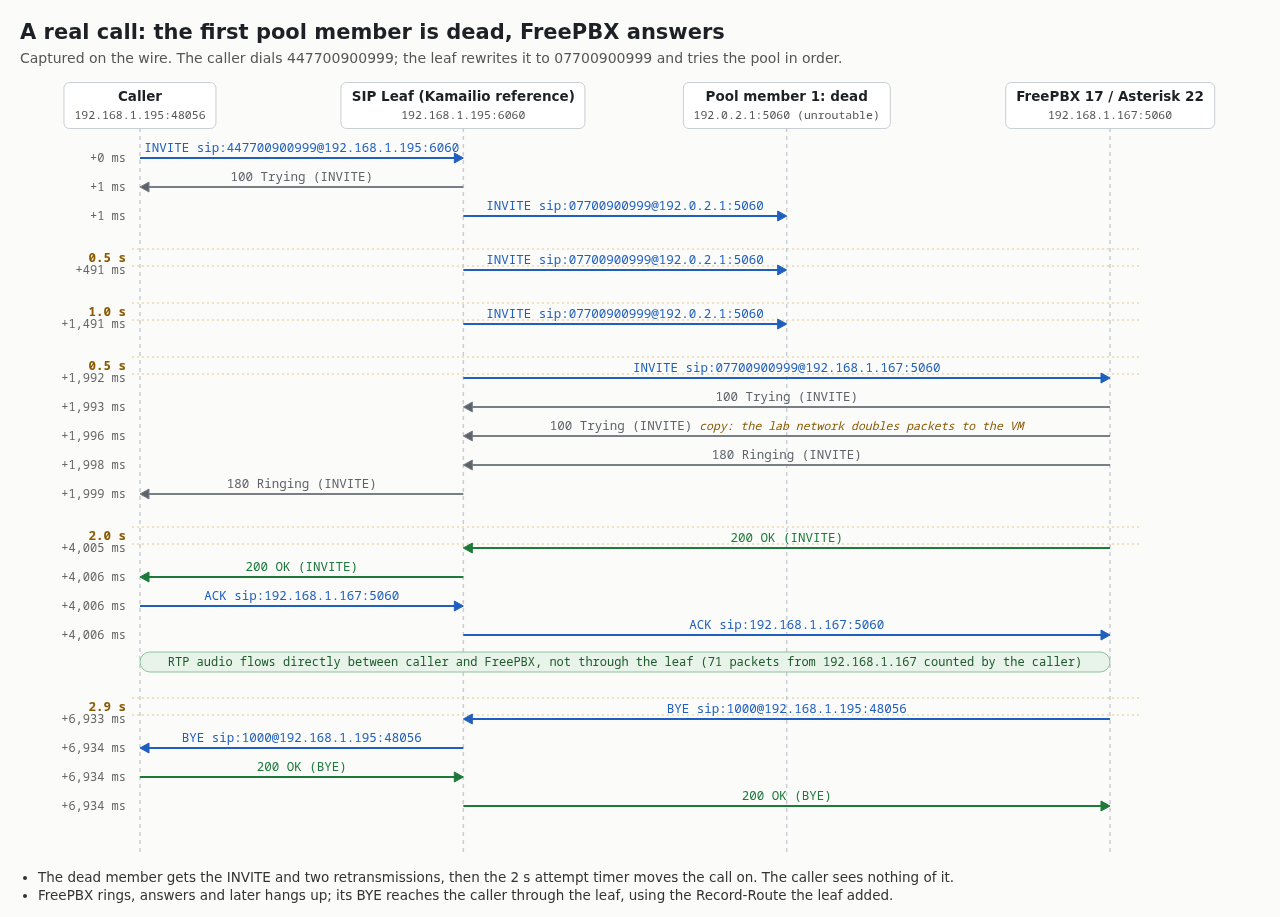
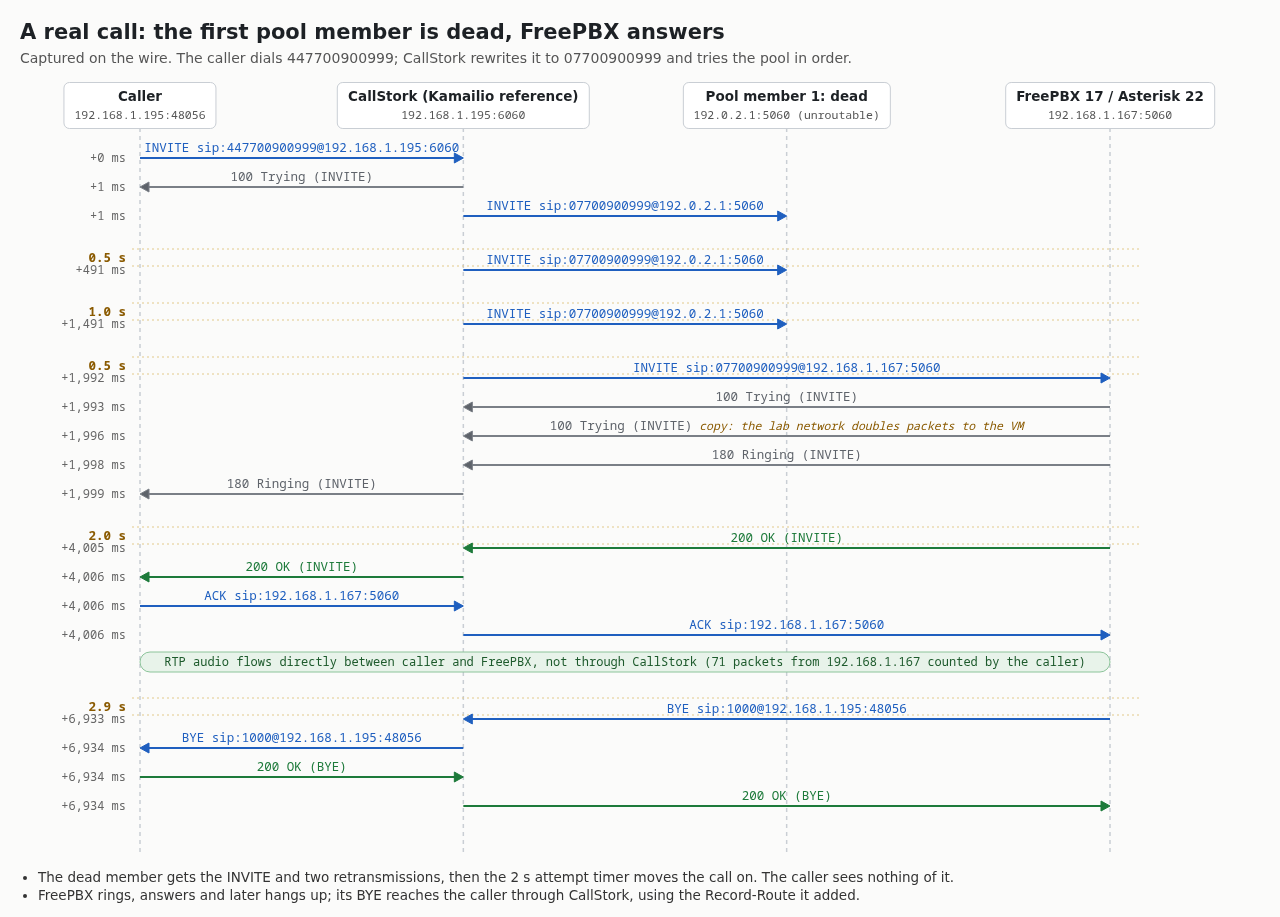
Rename the SIP Leaf overview to CallStork

Changed region(s): [[0.125, 0.7023, 0.8438, 0.7328], [0.25, 0.0611, 0.6562, 0.1221], [0.4375, 0.9466, 0.6875, 1.0]]

diff --git a/callstork/README.md b/callstork/README.md
@@ -1,12 +1,12 @@
-# SIP Leaf
+# CallStork
 
-**An inbound SIP dispatcher for small phone systems: it takes every call from a carrier, another PBX or a SIP endpoint at one address, picks the right rule for the dialled number, and hands the call to one PBX in a pool, failing over to the next when one is down.** SIP Leaf is a working name.
+**An inbound SIP dispatcher for small phone systems: it takes every call from a carrier, another PBX or a SIP endpoint at one address, picks the right rule for the dialled number, and hands the call to one PBX in a pool, failing over to the next when one is down.**
 
-A phone system with more than one PBX still has one front door: the carrier sends every call to a single SIP address. Something has to sit at that address and decide where each call goes. Usually that's a full SBC or a hand-written Kamailio or OpenSIPS config, which is a lot of machinery for "send these numbers to that pool, and if a PBX doesn't answer, try the next one". SIP Leaf aims at the small version of that job. You give it a short YAML file of peers, rules and pools. It stays in the signalling path, so it sees every BYE, but it never touches the audio or the caller ID.
+A phone system with more than one PBX still has one front door: the carrier sends every call to a single SIP address. Something has to sit at that address and decide where each call goes. Usually that's a full SBC or a hand-written Kamailio or OpenSIPS config, which is a lot of machinery for "send these numbers to that pool, and if a PBX doesn't answer, try the next one". CallStork aims at the small version of that job: it delivers each call to the right PBX, as the name suggests. You give it a short YAML file of peers, rules and pools. It stays in the signalling path, so it sees every BYE, but it never touches the audio or the caller ID.
 
-![A real call captured on the wire: the leaf tries a dead pool member, gives up after 2 s and sends the call to FreePBX, which rings, answers and later hangs up](images/01-failover.png)
+![A real call captured on the wire: CallStork tries a dead pool member, gives up after 2 s and sends the call to FreePBX, which rings, answers and later hangs up](images/01-failover.png)
 
-*A real call, captured on the wire. The first pool member is an unroutable address. The leaf sends it the INVITE and two retransmissions, gives up after its 2 s attempt timer and tries FreePBX, which rings for 2 s, answers and hangs up 2.9 s later. The caller sees one 100 Trying, one 180 Ringing and the 200 OK. The audio never passes through the leaf.*
+*A real call, captured on the wire. The first pool member is an unroutable address. CallStork sends it the INVITE and two retransmissions, gives up after its 2 s attempt timer and tries FreePBX, which rings for 2 s, answers and hangs up 2.9 s later. The caller sees one 100 Trying, one 180 Ringing and the 200 OK. The audio never passes through CallStork.*
 
 ---
 
@@ -21,7 +21,7 @@ A phone system with more than one PBX still has one front door: the carrier send
 | **The awkward cases** | CANCEL at every stage, ACK absorption, retransmissions, late answers, in-dialog requests, restarts with calls up |
 | **Tested** | 28 wire scenarios in two Record-Route modes, and real calls to FreePBX 17 / Asterisk 22 |
 
-Today SIP Leaf is a Kamailio 6.1 reference configuration, a YAML contract and a test harness. The standalone program (Go, built on the `sipgo` library) comes next and has to pass the same tests.
+Today CallStork is a Kamailio 6.1 reference configuration, a YAML contract and a test harness. The standalone program (Go, built on the `sipgo` library) comes next and has to pass the same tests.
 
 ---
 
@@ -37,15 +37,15 @@ A **pool** is a list of PBXs and a way to choose between them. The reference doe
 
 ## Failover the caller doesn't notice
 
-Each attempt is a separate SIP transaction with its own branch. If a PBX doesn't answer at all, replies 5xx, or can't be reached, the leaf tries the next member. The caller has only seen 100 Trying, so the switch is invisible to them, as in the call at the top of this page. Retransmissions of the caller's INVITE during the switch are absorbed, so a call never reaches two PBXs at once.
+Each attempt is a separate SIP transaction with its own branch. If a PBX doesn't answer at all, replies 5xx, or can't be reached, CallStork tries the next member. The caller has only seen 100 Trying, so the switch is invisible to them, as in the call at the top of this page. Retransmissions of the caller's INVITE during the switch are absorbed, so a call never reaches two PBXs at once.
 
 Some outcomes stop the search: busy (486), not found (404) or any other 4xx or 6xx is a real answer and goes back to the caller. Once a PBX has sent 180 or 183 the caller has heard ringing, so a 5xx after that goes back too: being moved to a second PBX mid-ring would be worse than a failed call. If no member is left, or all are down, the caller gets a 503.
 
 ## Timers that follow the call, not the PBX
 
-![FreePBX sends 100 Trying and nothing else; at 8 s the leaf cancels it and answers the caller 503](images/03-deadline.png)
+![FreePBX sends 100 Trying and nothing else; at 8 s CallStork cancels it and answers the caller 503](images/03-deadline.png)
 
-There are two timers. The **attempt timer** gives a PBX 2 s to say anything at all. A 100 Trying is enough to stop it, because a PBX that has said Trying is alive and working on the call. The **setup deadline** gives the whole call 8 s, counted from the caller's INVITE and across every attempt, to start ringing. When it passes, the leaf cancels the attempt in progress and answers the caller 503. It doesn't move on to another member: by then the caller has waited long enough.
+There are two timers. The **attempt timer** gives a PBX 2 s to say anything at all. A 100 Trying is enough to stop it, because a PBX that has said Trying is alive and working on the call. The **setup deadline** gives the whole call 8 s, counted from the caller's INVITE and across every attempt, to start ringing. When it passes, CallStork cancels the attempt in progress and answers the caller 503. It doesn't move on to another member: by then the caller has waited long enough.
 
 Once a PBX sends 180 or 183 the deadline no longer applies. The call can ring for up to three minutes, in line with SIP's Timer C for proxies, until someone answers or someone hangs up.
 
@@ -58,20 +58,20 @@ The first version of the reference got both timers wrong: ringing calls were cut
 Routing an INVITE is the easy part. The harness concentrates on the moments when two things happen at once:
 
 - **CANCEL** before the PBX has answered anything, during ringing, between two attempts, and after the call was answered.
-- **ACKs:** the ACK for a busy or error response is absorbed by the leaf, while the ACK for a 200 goes to the PBX.
+- **ACKs:** the ACK for a busy or error response is absorbed by CallStork, while the ACK for a 200 goes to the PBX.
 - **Retransmissions:** of the caller's INVITE during failover, and of the PBX's 200 (which must reach the caller).
-- **In-dialog requests:** BYE from either side, re-INVITE and OPTIONS follow the Record-Route path. A BYE still gets through after the leaf has been **restarted** or its configuration **reloaded** with the call up, because the leaf keeps no per-call state once a call is set up.
+- **In-dialog requests:** BYE from either side, re-INVITE and OPTIONS follow the Record-Route path. A BYE still gets through after CallStork has been **restarted** or its configuration **reloaded** with the call up, because CallStork keeps no per-call state once a call is set up.
 - **Guards:** too many hops gets 483, and an INVITE too large for UDP gets 513.
 
-Each scenario runs a fake caller and two fake PBXs in Python, using only the standard library. The PBXs can be told to answer, ring, stay silent, return 5xx or busy, or answer late. The harness checks what each side saw, including the Request-URI every PBX received. That check was added after a review of the traces found a failover, after a timeout, sending the second PBX the caller's original number instead of the rewritten one. Every run writes a verbatim, timestamped trace. The traces for both modes, one Record-Route header and the RFC 5658 pair for a leaf with two network addresses, are in the repository as the reference the standalone program must match.
+Each scenario runs a fake caller and two fake PBXs in Python, using only the standard library. The PBXs can be told to answer, ring, stay silent, return 5xx or busy, or answer late. The harness checks what each side saw, including the Request-URI every PBX received. That check was added after a review of the traces found a failover, after a timeout, sending the second PBX the caller's original number instead of the rewritten one. Every run writes a verbatim, timestamped trace. The traces for both modes, one Record-Route header, and the RFC 5658 pair used when CallStork has two network addresses, are in the repository as the reference the standalone program must match.
 
 ## Checked against a real PBX
 
-![Seven real calls through the leaf to FreePBX: answered, both hang-ups, busy, unknown number, failover from a dead member, CANCEL and the setup deadline, all passing](images/05-real-pbx.png)
+![Seven real calls through CallStork to FreePBX: answered, both hang-ups, busy, unknown number, failover from a dead member, CANCEL and the setup deadline, all passing](images/05-real-pbx.png)
 
 The same reference was then run on a LAN address, with a FreePBX 17 (Asterisk 22) virtual machine as the pool. A test caller sent each call with a real SDP offer, and a small dialplan on FreePBX gave each test number one behaviour: ring then answer, busy, ring until cancelled, answer and stay up, or say Trying and nothing else. All seven cases passed, twice. In every answered call the audio went directly between FreePBX and the caller: the caller counted 71 RTP packets, all from FreePBX's own address.
 
-Two things learned from the run are written up in the repository. FreePBX accepts calls from unknown sources and checks for them before it checks headers, so the leaf has to be identified by its IP address and port. And in this lab, a WSL2 instance and a VMware virtual machine on the same Windows host, every packet sent to the VM arrives twice. SIP takes the copies as retransmissions and calls still work, but the copies show up in traces (the ladders above mark them).
+Two things learned from the run are written up in the repository. FreePBX accepts calls from unknown sources and checks for them before it checks headers, so CallStork has to be identified by its IP address and port. And in this lab, a WSL2 instance and a VMware virtual machine on the same Windows host, every packet sent to the VM arrives twice. SIP takes the copies as retransmissions and calls still work, but the copies show up in traces (the ladders above mark them).
 
 ---
 
@@ -84,8 +84,8 @@ The reference is a single Kamailio configuration file plus two data files, the a
 Phase 0 of a planned product, built in November 2026: the design is settled and proven on the wire, but there is no standalone program yet.
 
 - **Working:** the Kamailio reference (UDP, IPv4), the YAML contract, the harness with 28 scenarios passing in both Record-Route modes, and the real-PBX run above.
-- **Next:** choosing the product's name, then the standalone Go program, with `check` and `test` commands that validate a config and run the scenarios against it, then a web page for the config. The plan is tracked as [issues](https://github.com/chrisnock-personal/sip-leaf/issues).
-- **In review:** two gaps found while writing this page are fixed in a [pull request](https://github.com/chrisnock-personal/sip-leaf/pull/15) awaiting review. A 200 that a PBX sends after the leaf has given up on its attempt was passed on to the caller; now the leaf answers it and hangs it up on the PBX, as the design asks. And the 503 now carries `Retry-After`. Three new scenarios bring the suite to 31, all passing in both modes. A [second pull request](https://github.com/chrisnock-personal/sip-leaf/pull/16) adds the real-PBX run as a repeatable tool, with a guide to preparing FreePBX or Asterisk for it.
+- **Next:** the standalone Go program, with `check` and `test` commands that validate a config and run the scenarios against it, then a web page for the config. The plan is tracked as [issues](https://github.com/chrisnock-personal/callstork/issues).
+- **In review:** two gaps found while writing this page are fixed in a [pull request](https://github.com/chrisnock-personal/callstork/pull/15) awaiting review. A 200 that a PBX sends after CallStork has given up on its attempt was passed on to the caller; now CallStork answers it and hangs it up on the PBX, as the design asks. And the 503 now carries `Retry-After`. Three new scenarios bring the suite to 31, all passing in both modes. A [second pull request](https://github.com/chrisnock-personal/callstork/pull/16) adds the real-PBX run as a repeatable tool, with a guide to preparing FreePBX or Asterisk for it.
 - **Not yet:** TCP and TLS, registering to a carrier as a client, and a real carrier in front of it.
 
-Source and reference documentation: [github.com/chrisnock-personal/sip-leaf](https://github.com/chrisnock-personal/sip-leaf).
+Source and reference documentation: [github.com/chrisnock-personal/callstork](https://github.com/chrisnock-personal/callstork).

diff --git a/README.md b/README.md
@@ -11,12 +11,12 @@ Overviews of my projects: what each one is for, what it does, and how it looks i
 | [CallOwl](callowl/README.md) | A self-hosted call logging platform: collects Open CDR call records from any phone system, then searches, measures and audits them with scoped access | Private |
 | [CallRaven](callraven/README.md) | A containerised SIP softphone and test tool for phone systems: real calls, captured, measured, transcribed and graded, from a web UI or a REST API | Private |
 | [CallRoost](callroost/README.md) | The tester of testers: a test platform for compliance capture and telephony tools, built on a phone system with known answers. IVRs, a contact centre and about 40 numbers that fail on purpose, each with the CDRs, Open CDR record, recording and SIPREC session it should leave, worked out in advance and checked against real calls | Private |
+| [CallStork](callstork/README.md) | An inbound SIP dispatcher: takes every call at one address, matches the dialled number against ordered rules, and hands each call to one PBX in a pool, failing over when one is down. Phase 0: a Kamailio reference and wire-test harness, checked against FreePBX | [Public](https://github.com/chrisnock-personal/callstork) |
 | [Desktop Icon Manager](desktop-icon-manager/README.md) | A native Linux app for changing any application's icon in the menu and dock, Chrome web apps included | [Public](https://github.com/chrisnock-personal/desktop-icon-manager) |
 | [FleetWright](fleetwright/README.md) | Keeps Linux servers up to date, through an agent or over SSH: what's pending across the fleet, installs in batches with a canary, auto-install policies by kind of update, booked maintenance windows, notifications when something needs you, a REST API with the same roles, and a record of every package changed | [Public](https://github.com/chrisnock-personal/fleetwright) |
 | [Marginalia](marginalia/README.md) | A Markdown editor for documentation in git: edit pages like a word processor, comment on words and images, and publish the edits and comments as a branch and pull request, from a local repo or GitHub | [Public](https://github.com/chrisnock-personal/marginalia) |
 | [Parley](parley/README.md) | An IP intercom in the browser: talk groups and direct calls, with live transcripts, group chat and SIP-REC recording | [Public](https://github.com/chrisnock-personal/parley) |
 | [Playhall](playhall/README.md) | Game rooms for friends in the browser: a host, players and people watching, nine board and card games, a chat for the players and one for the watchers, private rooms, and leaderboards that keep score over weeks and months | [Public](https://github.com/chrisnock-personal/playhall) |
-| [SIP Leaf](sip-leaf/README.md) | An inbound SIP dispatcher: takes every call at one address, matches the dialled number against ordered rules, and hands each call to one PBX in a pool, failing over when one is down. Phase 0: a Kamailio reference and wire-test harness, checked against FreePBX | [Public](https://github.com/chrisnock-personal/sip-leaf) |
 | [Skyfarer](skyfarer/README.md) | Watches the status pages of nine cloud providers, from AWS and Azure to DigitalOcean and Hetzner, and tells you about incidents and maintenance in the regions you run in, through Zendesk, ServiceNow, Jira Service Management, Freshdesk, PagerDuty, Pushover, Teams, SNMP traps or webhooks, all set up in the browser | [Public](https://github.com/chrisnock-personal/skyfarer) |
 | [The Open CDR Project](open-cdr/README.md) | An open, vendor-neutral standard for call detail records: one record shape for every call, whichever phone system made it, and one API to read them | [Public](https://github.com/chrisnock-personal/open-cdr-project) |
 | [wanshape](wanshape/README.md) | A command-line tool that puts one container, one service's ports or one libvirt VM on a simulated bad network (delay, jitter, bursty loss, bandwidth cap) without touching anything else on the machine | [Public](https://github.com/chrisnock-personal/wanshape) |
